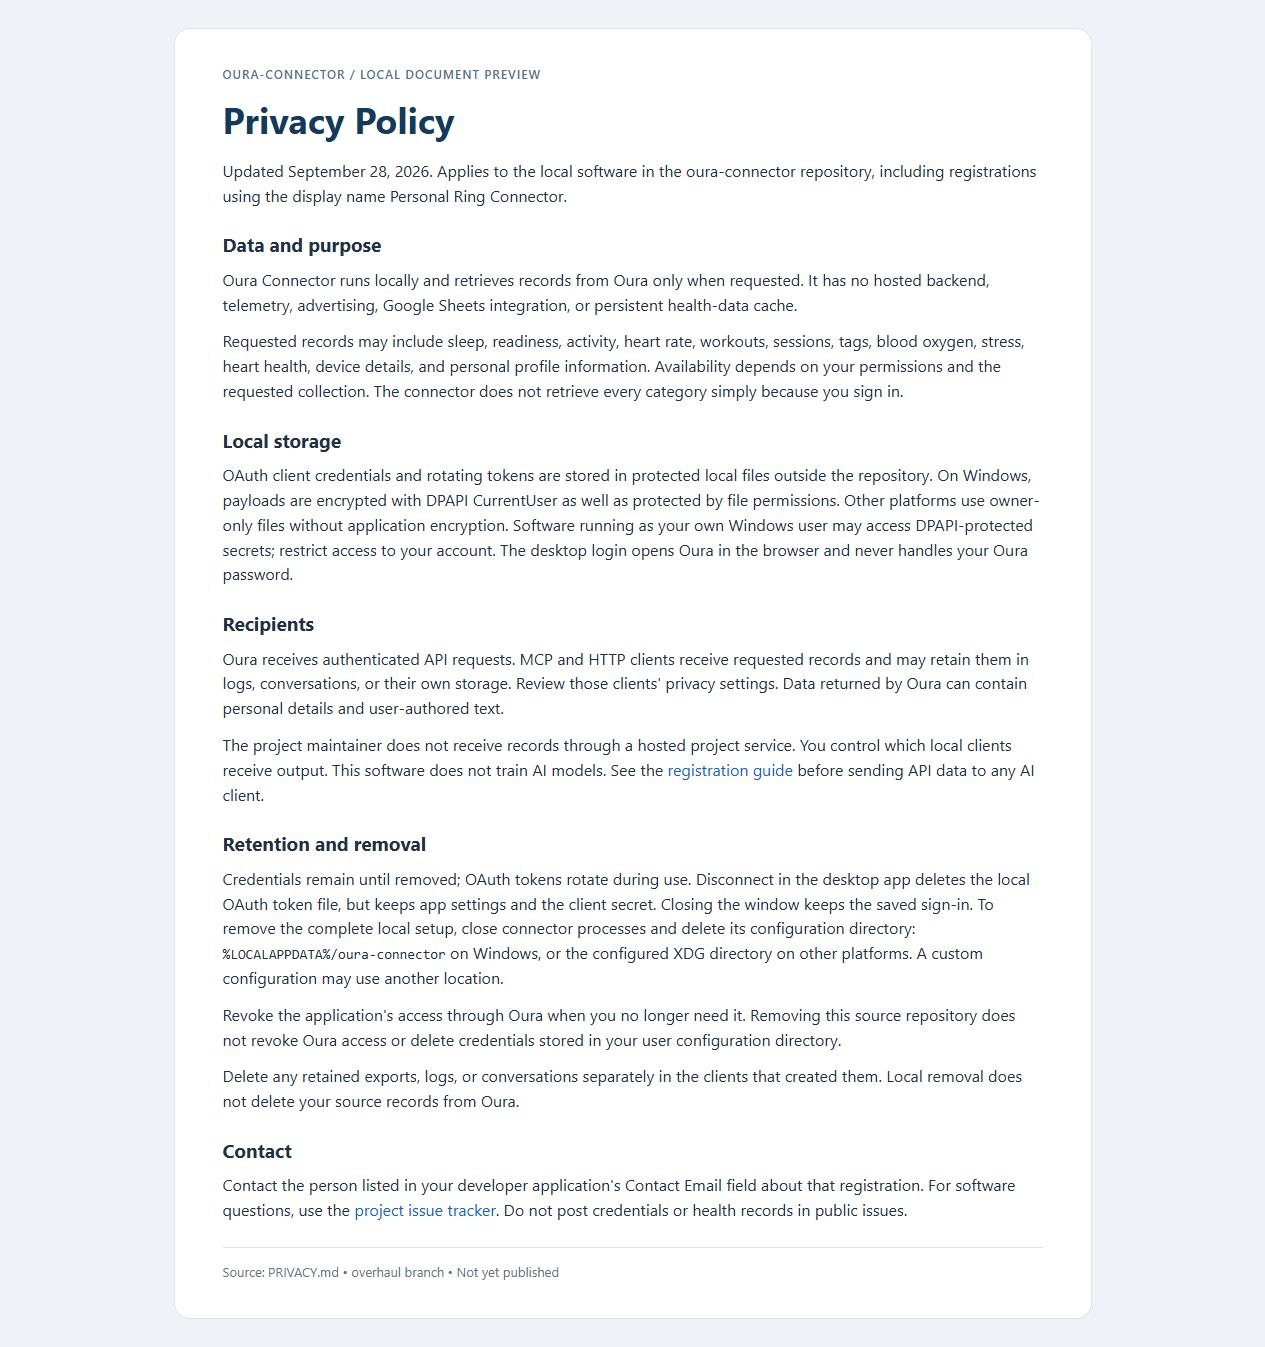
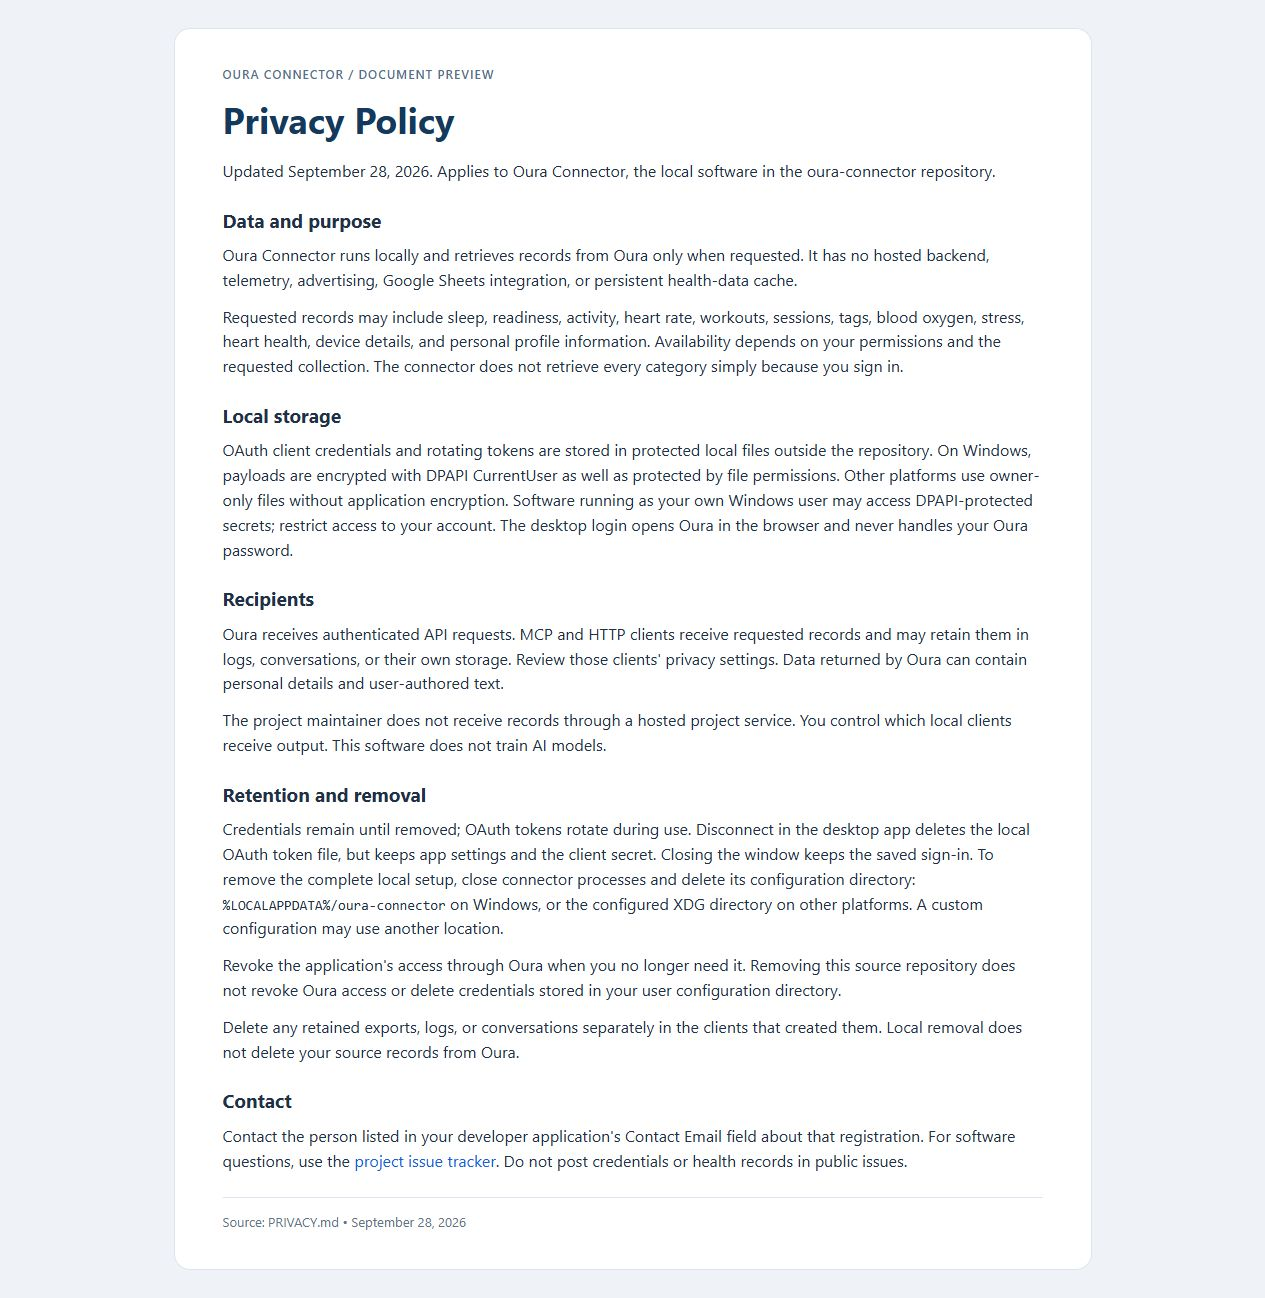
Keep Oura Connector name and prepare stable main policy links

Changed region(s): [[0.1542, 0.4622, 0.8016, 0.9553], [0.1542, 0.0308, 0.8324, 0.4314], [0.7708, 0.4931, 0.8016, 0.5239]]

diff --git a/docs/app-registration.md b/docs/app-registration.md
@@ -6,7 +6,7 @@ Open [Oura's developer portal](https://developer.ouraring.com/applications) and 
 
 | Portal field | Value |
 | --- | --- |
-| Display Name | `Personal Ring Connector` |
+| Display Name | `Oura Connector` |
 | Description | `A local, read-only app that retrieves my authorized ring data on request and presents it in a readable format. No hosted backend or persistent health-data cache.` |
 | Contact Email | Your own monitored email address. This is the app operator's contact, not an API credential. |
 | Website | `https://github.com/whuang214/oura-connector` |
@@ -14,7 +14,7 @@ Open [Oura's developer portal](https://developer.ouraring.com/applications) and 
 | Terms of Service | Public URL of this repository's [TERMS.md](../TERMS.md), once published; see below. |
 | Redirect URIs | `http://localhost:8765/callback` |
 
-The display name is a suggestion for registration, not a repository rename. Keep the description accurate if you modify or host the software. Do not describe this project as an official Oura integration.
+Use the existing Oura Connector name; the repository remains oura-connector. Keep the description accurate if you modify or host the software. Do not describe this project as an official Oura integration.
 
 ![Oura New Application form supplied by the user; no credentials](screenshots/oura-new-application.png)
 
@@ -22,14 +22,14 @@ The display name is a suggestion for registration, not a repository rename. Keep
 
 Privacy explains data handling. Terms explains permitted use, availability, and software conditions. Neither field takes pasted policy text: both take an accessible page URL. The project policies describe this local software; do not substitute Oura's privacy policy for your app's policy.
 
-After publishing the current `overhaul` branch to a publicly readable repository, the proposed URLs are:
+Use these stable policy URLs after publishing the updated `main` branch:
 
 ```text
-https://github.com/whuang214/oura-connector/blob/overhaul/PRIVACY.md
-https://github.com/whuang214/oura-connector/blob/overhaul/TERMS.md
+https://github.com/whuang214/oura-connector/blob/main/PRIVACY.md
+https://github.com/whuang214/oura-connector/blob/main/TERMS.md
 ```
 
-These edits are local until pushed. Do not submit the proposed URLs while they are missing, private, or showing older text. Open each while signed out and confirm the intended document is visible. Oura's acceptance of GitHub document URLs has not been verified; if the portal rejects them, publish equivalent public pages. After merging to `main`, update registration to stable `blob/main/...` URLs. A local screenshot or localhost policy page is not a replacement for a public policy URL.
+These edits are local until pushed. Do not submit the proposed URLs while they are missing, private, or showing older text. Open each while signed out and confirm the intended document is visible. Oura's acceptance of GitHub document URLs has not been verified; if the portal rejects them, publish equivalent public pages. A local screenshot or localhost policy page is not a replacement for a public policy URL.
 
 For a fork or a different operator, use that operator's website, contact email, and policy URLs, and adjust the policy text to the actual deployment.
 
@@ -59,10 +59,6 @@ The callback URL must match exactly, including `localhost`, port, and `/callback
 
 After sign-in, **Check connection** verifies one daily-sleep request. It does not prove every resource permission works. Closing preserves sign-in; **Disconnect** removes local OAuth tokens. The [detailed setup guide](setup.md) covers storage, revocation, CLI, and troubleshooting.
 
-## Current provider restriction
+## References
 
-Reviewed September 28, 2026: Oura's [API and MCP Agreement](https://cloud.ouraring.com/legal/api-agreement), effective June 8, 2026, section 4(d), restricts providing API-derived data to AI models and directs eligible AI use through Oura's own MCP server. Section 6(e) also restricts Oura branding in application names. The suggested neutral display name addresses registration only; the existing repo/UI names have not been changed.
-
-This materially affects the originally planned custom API-to-AI MCP path. Do not treat it as approved under the current agreement. Resolving that path with Oura or changing the architecture is an outstanding design decision; this documentation update does not resolve it. The policies describe the implementation and do not certify legal compliance or app approval.
-
-Sources: the supplied portal screenshot; [official OAuth documentation](https://cloud.ouraring.com/docs/authentication); the agreement linked above. Portal UI and documentation can differ. The developer-portal link has changed; the documented OAuth authorization and token endpoints remain separate and were not changed by this update.
+Sources: the supplied portal screenshot; [official OAuth documentation](https://cloud.ouraring.com/docs/authentication); [Oura API and MCP Agreement](https://cloud.ouraring.com/legal/api-agreement). Portal UI and documentation can differ. The developer-portal link has changed; the documented OAuth authorization and token endpoints remain separate and were not changed by this update.

diff --git a/docs/implementation.md b/docs/implementation.md
@@ -90,3 +90,10 @@ Completed: expanded PRIVACY.md and TERMS.md, added docs/app-registration.md with
 Verification: 10 desktop/CLI tests passed; Ruff and strict mypy passed. Both full-page policy screenshots were inspected for readable, complete content. Relative documentation links and diff whitespace were checked before commit. Remote publication and Oura's acceptance of GitHub policy URLs remain unverified.
 
 New evidence changes the earlier MCP design assumptions: the current Oura API and MCP Agreement (effective June 8, 2026), section 4(d), restricts API-to-AI data use, and section 6(e) restricts application branding. Documented this in the user setup path rather than presenting the existing custom MCP path as approved. Proposed a neutral portal display name only; no package/UI rename or architecture change. Resolving the intended AI integration with Oura's current terms is the next unresolved design decision. The portal also exposes three permission labels absent from the eight-scope OAuth reference; exact new identifiers and live coverage remain unverified.
+
+
+## Stable policy links and naming — September 28
+
+The user asked to rebase, keep the existing Oura Connector name, and continue the personal-use implementation without the proposed redesign. Fetched origin and rebased overhaul onto origin/main; Git reported it was already up to date. Updated the registration display name and policy text, switched proposed URLs to blob/main, removed repeated provider warnings from onboarding, and refreshed policy previews. The provider agreement link remains in Terms and references; this records the user's chosen scope without asserting an exemption or provider approval.
+
+Planned delivery: audit documentation links and previews, commit this documentation-only wave, then fast-forward local main to the reviewed overhaul work. Publishing requires explicit push authorization under the user's Global Working Rules. No force push or remote history rewrite is needed.

diff --git a/PRIVACY.md b/PRIVACY.md
@@ -1,6 +1,6 @@
 # Privacy Policy
 
-Updated September 28, 2026. Applies to the local software in the oura-connector repository, including registrations using the display name Personal Ring Connector.
+Updated September 28, 2026. Applies to Oura Connector, the local software in the oura-connector repository.
 
 ## Data and purpose
 
@@ -16,7 +16,7 @@ OAuth client credentials and rotating tokens are stored in protected local files
 
 Oura receives authenticated API requests. MCP and HTTP clients receive requested records and may retain them in logs, conversations, or their own storage. Review those clients' privacy settings. Data returned by Oura can contain personal details and user-authored text.
 
-The project maintainer does not receive records through a hosted project service. You control which local clients receive output. This software does not train AI models. See the [registration guide](docs/app-registration.md#current-provider-restriction) before sending API data to any AI client.
+The project maintainer does not receive records through a hosted project service. You control which local clients receive output. This software does not train AI models.
 
 ## Retention and removal
 

diff --git a/TERMS.md b/TERMS.md
@@ -1,6 +1,6 @@
 # Terms of Service
 
-Updated September 28, 2026. Applies to the local software in the oura-connector repository, including registrations using the display name Personal Ring Connector.
+Updated September 28, 2026. Applies to Oura Connector, the local software in the oura-connector repository.
 
 ## Use and access
 
@@ -10,7 +10,7 @@ You manage your developer application, credentials, device, and receiving client
 
 ## Provider requirements
 
-The [Oura API and MCP Agreement](https://cloud.ouraring.com/legal/api-agreement) applies separately. These terms grant no additional rights to Oura data. Its current AI-use and naming restrictions are noted in the [registration guide](docs/app-registration.md#current-provider-restriction). This project's custom MCP server is not Oura's official MCP service.
+The [Oura API and MCP Agreement](https://cloud.ouraring.com/legal/api-agreement) applies separately. These terms grant no additional rights to Oura data. This project's custom MCP server is not Oura's official MCP service.
 
 ## Data and availability
 

diff --git a/docs/setup.md b/docs/setup.md
@@ -42,8 +42,6 @@ Setup refuses to overwrite existing configuration or credentials. Edit non-secre
 
 ## MCP and HTTP
 
-See the [current provider restriction](app-registration.md#current-provider-restriction) before using real API data in an AI client. The custom local MCP server has not been approved by Oura. Local HTTP retrieval and AI use are different use cases under the provider agreement.
-
 The MCP command is `uv run --locked oura-connector mcp`. It reserves stdout for protocol traffic and starts no API subprocess. Configure it as a local stdio server; see the root README.
 
 HTTP is optional: `uv run oura-connector serve`. Only loopback hosts are accepted. Every route except `/health` requires the generated bearer token. The API rejects browser-origin requests and unknown Host values, disables access logs, and marks responses `no-store`. There is no public remote-server mode or unauthenticated documentation endpoint.

diff --git a/README.md b/README.md
@@ -35,8 +35,6 @@ The shortcut opens **Oura Connect** without a terminal window. The CLI setup/log
 
 ## Connect an MCP client
 
-Before connecting real data to an AI client, read the [current provider restriction](docs/app-registration.md#current-provider-restriction). This local implementation is not Oura's official MCP server; its existence does not establish permission to send API data to an AI model.
-
 Add a local stdio server using your client's supported MCP configuration:
 
 ```json
